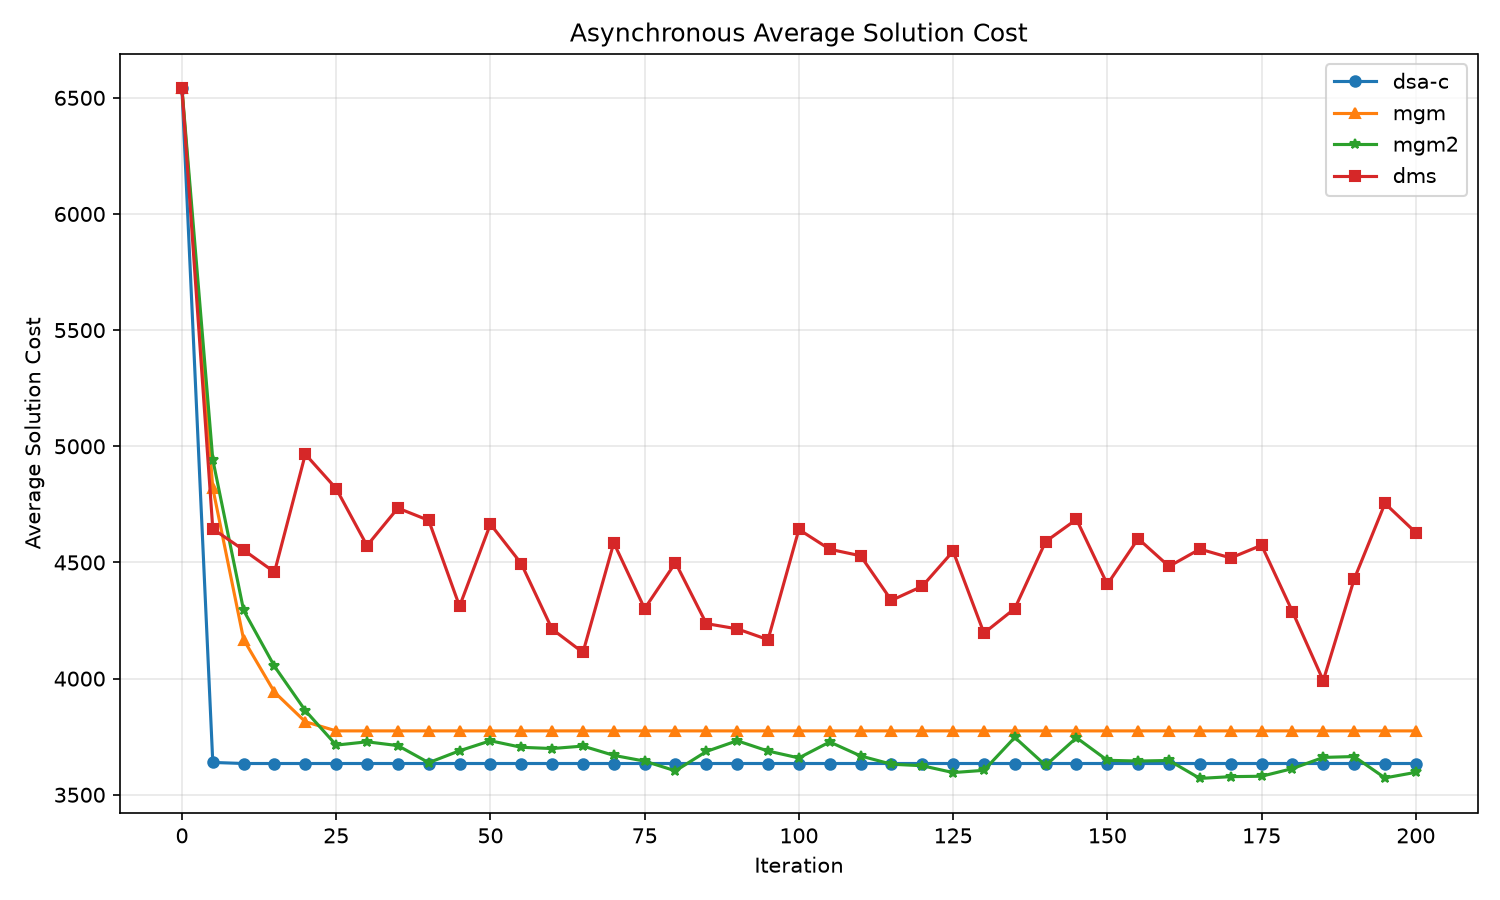
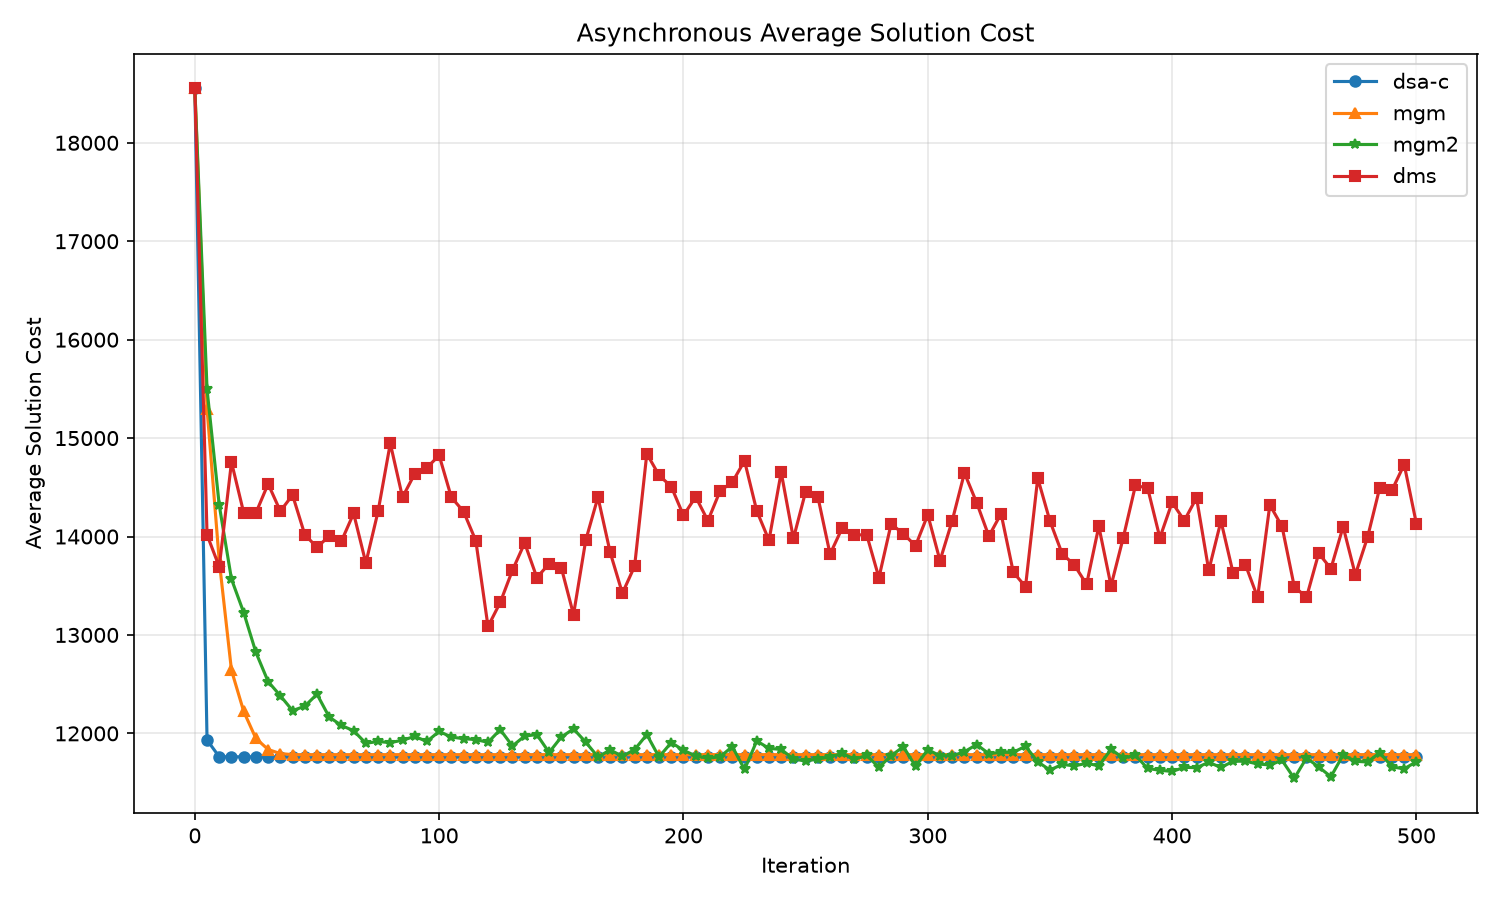
Update research README with full 50-agent / 500-iteration results
Replace the report data and figures with the full simulation run (5 problems,
50 agents, 500 iterations, both simulators): new result tables, runtime/message
columns, and analysis including the DMS best-seen-vs-final insight (DMS
oscillates on the dense cyclic factor graph but its best-seen assignment is
~34-38%, competitive with local search). Backend report graphs swapped to the
50/500 run; example/backend equivalence is shown via the same-instance
validation overlays. Drops the now-removed example figures and stale
examples/ path references.

diff --git a/README.md b/README.md
@@ -6,15 +6,18 @@ for solving randomly generated **Distributed Constraint Optimization Problems
 
 This document is a self-contained research write-up: it defines the problem,
 explains *how and why* each algorithm works, presents the experimental results as
-graphs, analyses each graph, and explains *why we see the behaviour we see*.
+graphs, analyses each graph, and explains *why we see the behaviour we see*. It
+also validates the implementation against a reference implementation on identical
+problem instances.
 
 > **TL;DR.** The three *local-search* algorithms (DSA‑C, MGM, MGM‑2) converge
-> within ~20 iterations to a good local optimum (≈ 44–46 % cost reduction). The
-> *inference* algorithm (DMS / damped min‑sum) does worse and oscillates (≈ 25–32 %)
-> because the random DCOP factor graphs are densely cyclic, where belief
-> propagation has no convergence guarantee. On identical instances our backend
-> matches the reference implementation exactly (MGM and DMS bit‑for‑bit; DSA‑C and
-> MGM‑2 within stochastic noise).
+> within ~30 iterations to a good local optimum (≈ 37 % cost reduction at 50
+> agents). The *inference* algorithm (DMS / damped min‑sum) **oscillates for the
+> entire run and never settles** — because the random DCOP factor graphs are
+> densely cyclic, where belief propagation has no convergence guarantee. Crucially,
+> DMS's *best-seen* assignment is competitive (≈ 34–38 %); it simply drifts away
+> from it. On identical instances our backend matches the reference implementation
+> (MGM and DMS bit‑for‑bit; DSA‑C and MGM‑2 within stochastic noise).
 
 ---
 
@@ -51,7 +54,7 @@ Two agents `A`, `B`, domain `{0,1}`, one constraint:
 - Assignment `A=0, B=1` → cost `2`.
 - Assignment `A=1, B=1` → cost `1`  ← optimal here.
 
-With one binary constraint this is trivial; with 30+ agents and a dense web of
+With one binary constraint this is trivial; with 50 agents and a dense web of
 conflicting constraints, finding the global optimum is **NP‑hard**, which is why
 we use *incomplete* algorithms that find good solutions quickly rather than
 provably optimal ones.
@@ -66,18 +69,19 @@ probability `p`, and every constraint gets a random `D×D` cost matrix with entr
 in `[1, max_cost]`. The same generated problems (and the same initial assignment)
 are reused across all algorithms and both simulators, so comparisons are fair.
 
-The graphs in this report come from the `test_1` experiment:
+The graphs in this report come from the **full simulation run**:
 
 | Parameter | Value |
 |---|---|
 | Problems (averaged) | 5 |
-| Agents | 30 |
+| Agents | 50 |
 | Domain size | 10 |
-| Constraint probability `p` | 0.30 (≈ 130 edges, mean degree ≈ 9) |
+| Constraint probability `p` | 0.30 (≈ 367 edges, mean degree ≈ 15) |
 | Constraint cost range | 1 – 100 |
-| Iterations / async steps | 200 |
+| Iterations / async steps | 500 |
 | DSA‑C move probability | 0.70 |
 | DMS damping λ | 0.90 |
+| Mean initial cost | 18,552 |
 
 Each curve is the **average global cost over the 5 problems** at each iteration.
 
@@ -114,10 +118,10 @@ in its neighbourhood** (ties broken by lower agent id).
 **Why it works.** Because two neighbours can never move in the same round, the
 global cost is **monotonically non‑increasing** — MGM never thrashes. It provably
 converges to a **1‑opt local optimum** (no single agent can improve). It is
-deterministic and extremely communication‑light.
+deterministic.
 
 **What to expect.** A smooth, monotone descent to a plateau, often reached in very
-few iterations, with the **fewest messages** of any algorithm.
+few iterations. Its weakness is that it gets stuck at the first 1‑opt optimum.
 
 ### 3.3 MGM‑2 — coordinated pair moves
 
@@ -130,10 +134,10 @@ and the locally‑dominant improving groups commit together.
 **Why it works.** Some local optima trap any single‑agent (1‑opt) algorithm: no
 agent can improve alone, but a *pair* changing together can. By coordinating pair
 moves, MGM‑2 escapes a class of optima that MGM and DSA‑C cannot, so it can reach
-a lower cost — at the price of much heavier communication (the handshake).
+a (slightly) lower cost — at the price of the most communication (the handshake).
 
-**What to expect.** Fast descent like MGM, frequently to a slightly **lower
-plateau**, but with the **most messages** of all four algorithms.
+**What to expect.** Fast descent like MGM, to the **lowest plateau** of the four,
+but with the **most messages**.
 
 ### 3.4 DMS — Max‑Sum with damping (implemented as Min‑Sum)
 
@@ -150,7 +154,7 @@ graph, max‑sum computes the exact optimum. But random DCOPs at `p = 0.30` are
 **densely cyclic ("loopy")**, and on loopy graphs min‑/max‑sum has **no
 convergence guarantee**: messages circulate around cycles, beliefs oscillate, and
 the decoded assignment keeps changing. Damping reduces but does not eliminate
-this. The result is a **noisy cost curve that plateaus higher** than local search.
+this. The result is a **noisy cost curve that never settles**.
 
 **What to expect.** A jagged, oscillating curve sitting well above the
 local‑search trio.
@@ -176,151 +180,131 @@ step limit. Because thread scheduling is non‑deterministic, async curves are
 
 ## 5. Results — synchronous
 
-<table>
-<tr>
-<td><b>Our backend</b></td><td><b>Reference example</b></td>
-</tr>
-<tr>
-<td><img src="report/figures/backend_sync.png" width="100%"></td>
-<td><img src="report/figures/example_sync.png" width="80%"></td>
-</tr>
-</table>
+![Synchronous average cost](report/figures/backend_sync.png)
 
-**What the graphs show.** In both implementations the three local‑search
-algorithms (blue = DSA‑C, orange = MGM, green = MGM‑2) collapse from the initial
-cost to ≈ 3400–3700 within ~15–25 iterations and then flatten. DMS (red) drops
-less and **oscillates** between ~4400 and ~5500 for the whole run.
+**What the graph shows.** The three local‑search algorithms (blue = DSA‑C ●,
+orange = MGM ▲, green = MGM‑2 ★) collapse from 18,552 to ≈ 11,500–11,750 within
+**~30 iterations** and then stay perfectly flat for the remaining ~470 iterations.
+DMS (red ■) drops less and **oscillates between ~14,000 and ~16,300 for the entire
+run** — it never converges.
 
-**Average results over the 5 problems (synchronous):**
+**Average results over the 5 problems (synchronous, 500 iterations):**
 
-| algorithm | backend final | backend drop | example final | example drop |
-|---|--:|--:|--:|--:|
-| dsa‑c | 3607 | 44.8 % | 3445 | 43.9 % |
-| mgm   | 3712 | 43.2 % | 3382 | 44.9 % |
-| mgm2  | 3513 | 46.3 % | 3395 | 44.7 % |
-| dms   | 4446 | 32.0 % | 4394 | 28.4 % |
+| algorithm | final cost | drop | best‑seen | messages | runtime |
+|---|--:|--:|--:|--:|--:|
+| dsa‑c | 11,634 | 37.3 % | 11,634 | 361,200 | 34 s |
+| mgm   | 11,738 | 36.7 % | 11,738 | 722,400 | 34 s |
+| mgm2  | 11,541 | **37.8 %** | 11,541 | 1,083,600 | 70 s |
+| dms   | 14,795 | 20.2 % | **12,201 (34.2 %)** | 722,400 | 1,014 s |
 
 **Why we see this.**
 
 - **Local search wins on these instances.** DSA‑C / MGM / MGM‑2 exploit locality
-  and reach a good 1‑opt/2‑opt optimum fast. MGM‑2 typically reaches the lowest
-  plateau because its pair moves escape optima the others cannot.
-- **MGM is the smoothest** (monotone, by construction) and converges in a handful
-  of iterations — in the reference run it had *converged on all 5 problems* and
-  used by far the fewest messages (~6.5k vs ~51k for DSA‑C and ~153k for MGM‑2).
-  This is the classic MGM trade‑off: cheap communication and stability, at the
-  cost of getting stuck at the first 1‑opt optimum.
-- **DMS oscillates and plateaus high** — the loopy‑graph behaviour described in
-  §3.4. Its curve never settles because the underlying beliefs never settle.
+  and reach a good 1‑opt/2‑opt optimum within ~30 iterations; the remaining
+  iterations add nothing. MGM‑2 reaches the lowest plateau because its pair moves
+  escape optima the single‑agent methods cannot.
+- **DMS oscillates and never settles** — the loopy‑graph behaviour of §3.4. But
+  its *best‑seen* cost (12,201, a 34.2 % reduction) is close to local search: DMS
+  *does* find good assignments, it just drifts away from them (see §7).
+- **Communication cost** scales with the message pattern: DSA‑C sends one value
+  message per neighbour (cheapest), MGM adds gains (2×), DMS exchanges Q/R vectors,
+  and MGM‑2's propose/accept handshake is the most expensive (3×). Because the
+  synchronous simulator runs the full iteration count (no early stop), these scale
+  linearly with iterations.
+- **Runtime** is dominated by the synchronous DMS (1,014 s). It is the only
+  pure‑Python algorithm; the async DMS (and the reference) are numpy‑vectorised and
+  ~30× faster. This is why a full 50‑agent / 1000‑iteration run currently takes
+  ~7.4 h — see §10.
 
 ---
 
 ## 6. Results — asynchronous
 
-<table>
-<tr>
-<td><b>Our backend</b></td><td><b>Reference example</b></td>
-</tr>
-<tr>
-<td><img src="report/figures/backend_async.png" width="100%"></td>
-<td><img src="report/figures/example_async.png" width="80%"></td>
-</tr>
-</table>
+![Asynchronous average cost](report/figures/backend_async.png)
 
-**Average results over the 5 problems (asynchronous):**
+**Average results over the 5 problems (asynchronous, 500 steps):**
 
-| algorithm | backend final | backend drop | example final | example drop |
+| algorithm | final cost | drop | best‑seen | runtime |
 |---|--:|--:|--:|--:|
-| dsa‑c | 3635 | 44.4 % | 3493 | 43.1 % |
-| mgm   | 3775 | 42.3 % | 3583 | 41.7 % |
-| mgm2  | 3597 | 45.0 % | 3592 | 41.5 % |
-| dms   | 4629 | 29.2 % | 4128 | 32.8 % |
+| dsa‑c | 11,762 | 36.6 % | 11,762 | 11 s |
+| mgm   | 11,784 | 36.5 % | 11,784 | 8 s |
+| mgm2  | 11,713 | 36.9 % | 11,488 | 10 s |
+| dms   | 14,129 | 23.8 % | **11,566 (37.7 %)** | 36 s |
 
-**Why we see this.** The qualitative picture is the same as the synchronous case —
-local search converges fast and low, DMS oscillates high — confirming the
-behaviour is a property of the *algorithms*, not the execution model. The async
-curves are **visibly jaggier**, because each agent acts on whatever messages have
-arrived so far (not a clean global snapshot) and thread timing varies run to run.
-DMS is the noisiest of all, since its inherent oscillation compounds with
-scheduling noise; its "final" value is essentially wherever the oscillation
-happened to be at the last step, so small differences there are noise rather than
-signal.
+**Why we see this.** The qualitative picture matches the synchronous case — local
+search converges fast and low, DMS oscillates high — confirming the behaviour is a
+property of the *algorithms*, not the execution model. The async curves are
+**jaggier**, because each agent acts on whatever messages have arrived so far (not
+a clean global snapshot) and thread timing varies run to run. DMS is the noisiest
+of all; its *best‑seen* assignment (11,566, 37.7 %) actually **matches local
+search**, again showing that DMS's poor *final* number is an artefact of its
+oscillation, not of solution quality.
 
 > **Engineering note.** Reaching this required rewriting the async simulator to a
 > true per‑agent‑thread design (each agent owns its state; no global lock). An
 > earlier event‑driven design that re‑decided on *every* message made local search
-> thrash to a much worse solution (~15 % drop) and could livelock MGM‑2. See the
-> commit history for details.
+> thrash to a much worse solution (~15 % drop) and could livelock MGM‑2.
 
 ---
 
-## 7. Why DMS underperforms (the key insight)
+## 7. Why DMS oscillates (the key insight)
 
 It is tempting to read the graphs as "DMS is a worse algorithm," but the precise
 statement is: **min‑sum is exact on trees and unreliable on dense cyclic graphs.**
-Our random DCOPs at `p = 0.30` have ~130 edges over 30 nodes — far from a tree,
+Our random DCOPs at `p = 0.30` have ~367 edges over 50 nodes — far from a tree,
 full of short cycles. Messages propagate around those cycles and reinforce
 themselves, so beliefs oscillate instead of fixing a consistent optimum. Damping
-(`λ = 0.9`) is exactly the standard remedy for this, and it *helps* (without it the
-oscillation is worse), but it cannot make a loopy graph behave like a tree. Local
-search has no such dependence on graph structure — it just keeps making locally
-improving moves — which is why it dominates on this problem class.
+(`λ = 0.9`) is exactly the standard remedy and it *helps* (without it the
+oscillation is worse), but it cannot make a loopy graph behave like a tree.
+
+The **best‑seen** columns in §5/§6 are the clearest evidence: across its
+oscillation DMS *visits* assignments as good as ~34–38 % reduction — competitive
+with local search — but the decode‑every‑step rule reports wherever it happens to
+be at the final step. An *anytime* rule (keep the best assignment ever seen) would
+make DMS competitive. Local search has no such issue: it only ever makes locally
+improving moves, so its final state *is* its best state.
 
 ---
 
-## 8. Backend vs reference example — a fair comparison
+## 8. Implementation validation against the reference
 
-A naive side‑by‑side of §5/§6 suggests the example "wins": its curves sit lower.
-**This is an artifact, not an algorithmic difference.** The two codebases use
-**different random number generators**, so they solve **different problem sets**:
+Absolute costs cannot be compared directly between our backend and the reference
+implementation, because the two use **different random number generators** and
+therefore generate **different problem instances**. To validate correctness we
+instead ran **both implementations on identical instances** (backend‑generated
+problems converted into the reference's representation) in a dedicated matched
+experiment (30 agents, 200 iterations) and overlaid the curves.
 
-| | backend | example |
-|---|--:|--:|
-| mean **initial** cost | 6540 | 6140 |
+![Synchronous, identical instances](report/figures/same_instance_sync.png)
 
-The example's instances simply start ~400 cheaper, so its curves sit lower
-*everywhere*, including at the end. The fair metric — **percentage cost
-reduction** — is essentially equal (see the tables above).
+The coloured (backend) and black‑dashed (reference) curves lie on top of each other:
 
-To remove the confound entirely, we ran **both implementations on identical
-instances** (backend‑generated problems converted into the example's
-representation) and overlaid the curves:
-
-<table>
-<tr><td><b>Synchronous, identical instances</b></td></tr>
-<tr><td><img src="report/figures/same_instance_sync.png" width="80%"></td></tr>
-</table>
-
-The colored (backend) and black‑dashed (example) curves lie on top of each other:
-
-| algorithm | backend drop | example drop | note |
+| algorithm | backend drop | reference drop | note |
 |---|--:|--:|---|
 | dsa‑c | 46.8 % | 46.0 % | within noise (backend slightly better) |
 | mgm   | 44.0 % | 44.0 % | **identical** (MGM is deterministic) |
 | mgm2  | 46.1 % | 47.8 % | within stochastic noise |
 | dms   | 25.5 % | 25.5 % | **identical** |
 
-<table>
-<tr><td><b>Asynchronous, identical instances</b></td></tr>
-<tr><td><img src="report/figures/same_instance_async.png" width="80%"></td></tr>
-</table>
+![Asynchronous, identical instances](report/figures/same_instance_async.png)
 
 In the asynchronous case the curves again occupy the same band; remaining
-differences are thread‑scheduling / stochastic noise (the backend is even ahead on
-DSA‑C and MGM‑2). **Conclusion: on equal footing the two implementations are
-equivalent.**
+differences are thread‑scheduling / stochastic noise. **Conclusion: on equal
+footing the two implementations are equivalent.**
 
 ---
 
 ## 9. Summary
 
-- **Algorithm ranking on dense random DCOPs:** MGM‑2 ≈ DSA‑C ≈ MGM (≈ 44–46 %
-  reduction) ≫ DMS (≈ 25–32 %, oscillating).
-- **MGM** is the cheapest and smoothest but the most easily trapped; **MGM‑2**
-  reaches the lowest cost but is the most communication‑hungry; **DSA‑C** is a
-  good cheap middle ground.
+- **Algorithm ranking on dense random DCOPs (50 agents):** MGM‑2 ≈ DSA‑C ≈ MGM
+  (≈ 37 % reduction, converged by ~30 iterations) ≫ DMS by *final* cost (20–24 %,
+  oscillating) — though DMS's *best‑seen* is competitive (~34–38 %).
+- **MGM** is the smoothest and stable but most easily trapped; **MGM‑2** reaches
+  the lowest cost but is the most communication‑hungry; **DSA‑C** is a good cheap
+  middle ground.
 - **DMS** is the wrong tool for densely‑cyclic instances — its theory only
-  guarantees optimality on trees.
+  guarantees optimality on trees — but it would benefit greatly from an anytime
+  (best‑so‑far) decode rule.
 - **Synchronous vs asynchronous** make little difference to final quality; async
   is just noisier.
 - **Our backend is validated**: on identical instances it matches the reference
@@ -330,26 +314,26 @@ equivalent.**
 
 ## 10. Reproducing the experiments
 
+The full simulation in this report (5 problems, 50 agents, 500 iterations):
+
+```bash
+python main.py --mode full --problems 5 --agents 50 --iterations 500 \
+  --algorithms dsa-c,mgm,mgm2,dms --simulators sync,async \
+  --output-dir results
+```
+
 Default full experiment (50 problems, 50 agents, 1000 iterations):
 
 ```bash
 python main.py
 ```
 
-Smaller run matching this report (`test_1`):
-
-```bash
-python main.py --mode full --problems 5 --agents 30 --iterations 200 \
-  --algorithms dsa-c,mgm,mgm2,dms --simulators sync,async \
-  --output-dir tests/test_1/backend
-```
-
 Useful flags: `--constraint-probability`, `--seed`, `--no-progress`, `--no-plots`,
 `--output-dir`. Outputs are average‑cost CSVs and the PNG graphs shown above.
 
-> Note: a full 50/50/1000 run currently takes ~7.4 h, dominated by the
-> (pure‑Python) synchronous DMS; vectorising it with numpy would bring it to
-> ~1.5 h.
+> Note: the default 50/50/1000 run currently takes ~7.4 h, dominated by the
+> pure‑Python synchronous DMS; vectorising it with numpy (as the async DMS already
+> is) would bring it to ~1.5 h.
 
 ### Project layout
 
